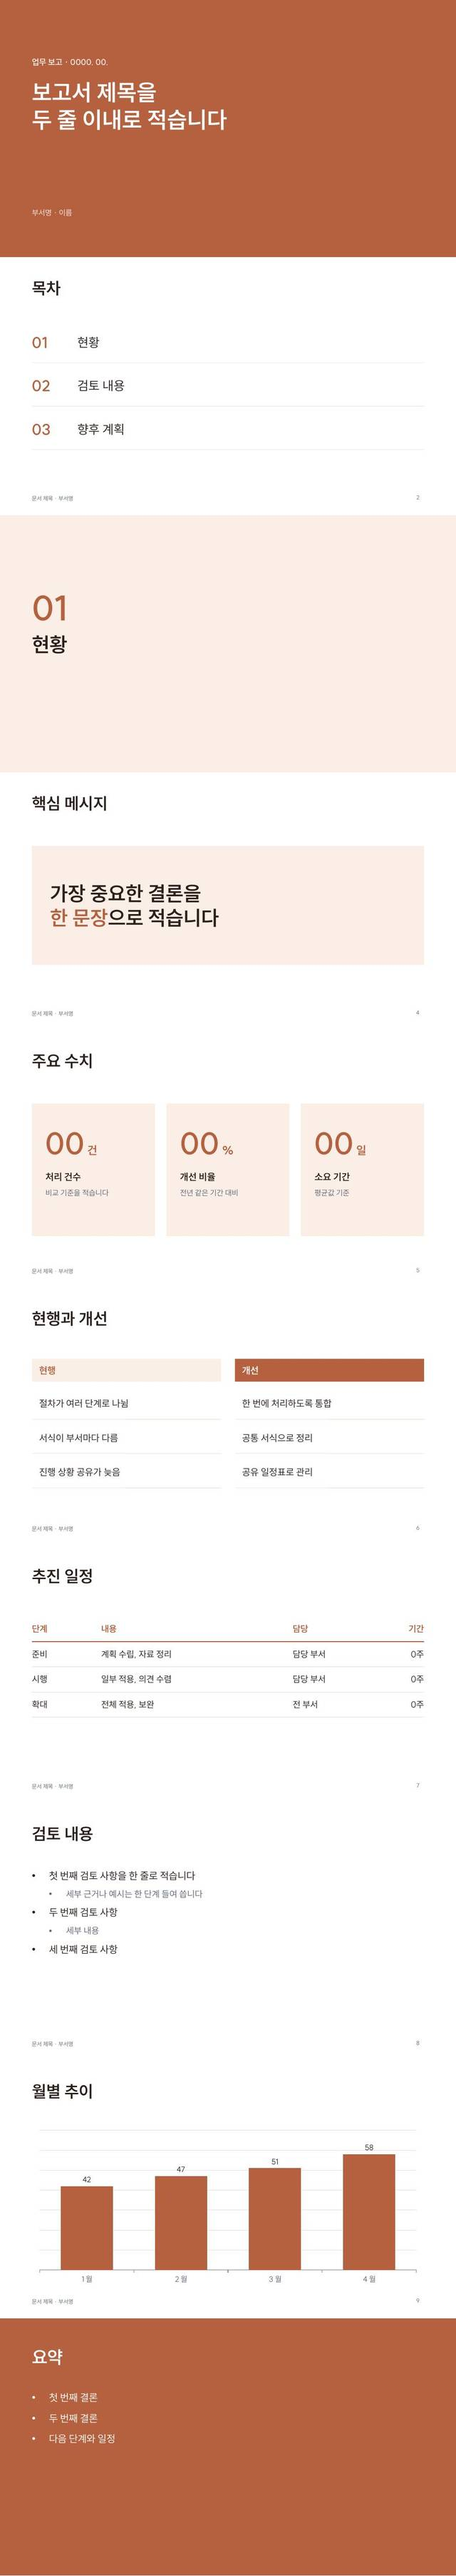
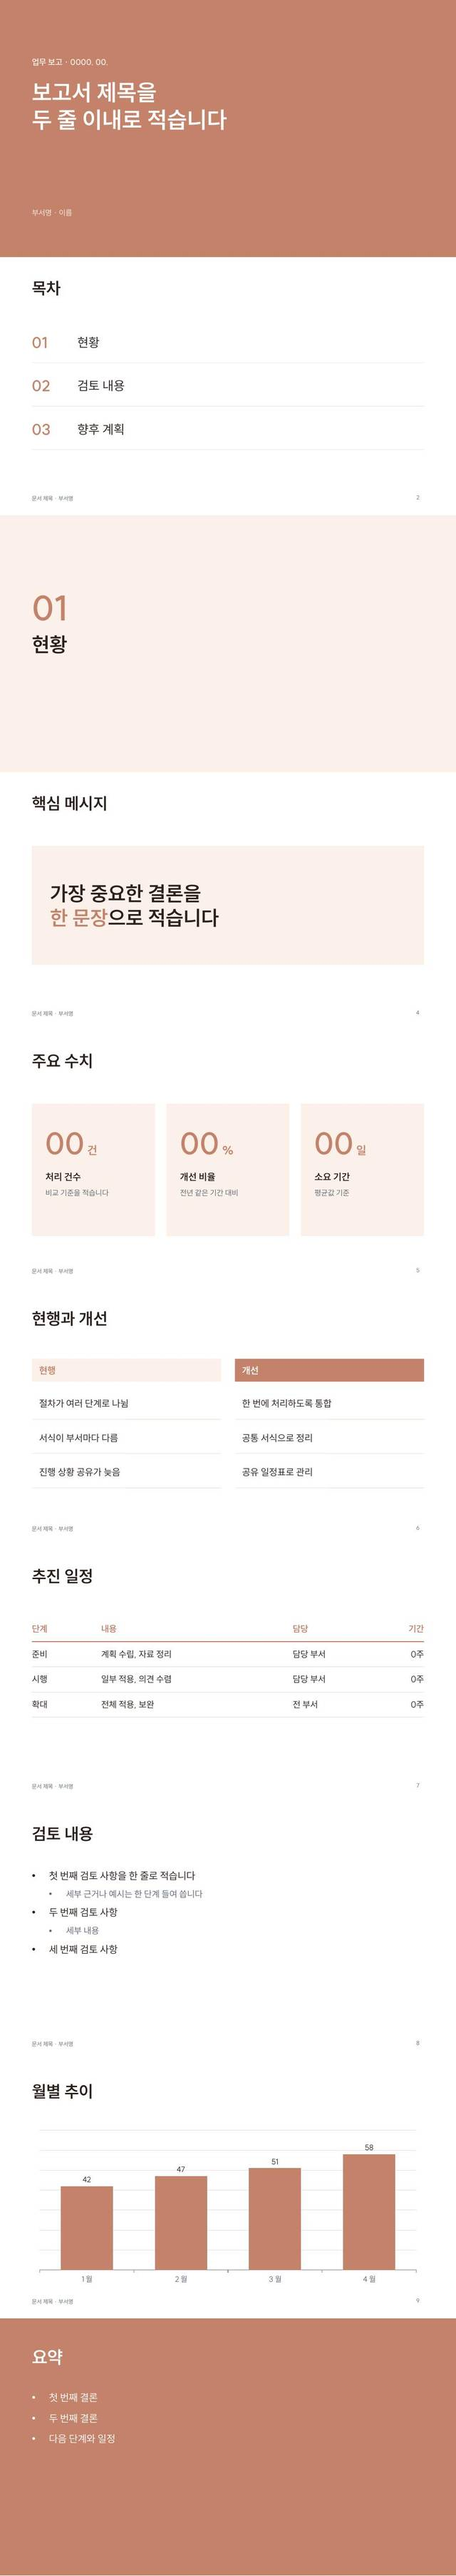
테라코타 옅게(C4826A), 추천 교육색 딥틸→세이지, 색 창 전체 목록은 추천 높이에서 스크롤
Claude-Session: https://claude.ai/code/session_01Ca5xgdiXcNBgih29kqtAto

diff --git a/index.html b/index.html
@@ -500,13 +500,13 @@ table.t th:last-child,table.t td:last-child{padding-right:0}
 - 차콜 그린 (추천 · 재무) [업무] 신뢰감 있는 녹색. 재무·결산 자료.
   주색 #2F3E3A / 보조 #6F807B / 옅은 바탕 #EFF3F1 / 글자 #1C2522 / 선 #D9E1DE / 포인트 #B7791F
   흰 글자 대비 11.2:1 → 주색 바탕에 본문까지 가능 · 진한 바탕 머리말 색: 포인트
-- 딥틸 (추천 · 교육) [교육] 교육·기관 소개 추천. 부드럽고 차분함.
+- 딥틸 [교육] 교육·기관 소개 추천. 부드럽고 차분함.
   주색 #1E4E5A / 보조 #5F8A93 / 옅은 바탕 #EDF3F4 / 글자 #1B2A2E / 선 #D6E2E4 / 포인트 #E08E45
   흰 글자 대비 9.2:1 → 주색 바탕에 본문까지 가능 · 진한 바탕 머리말 색: 포인트
 - 더스티 블루 [교육] 연한 파랑. 학부모·교사 대상 안내.
   주색 #4C6A8A / 보조 #8AA2BB / 옅은 바탕 #F0F4F8 / 글자 #1F2B38 / 선 #DCE4EC / 포인트 #D98C6A
   흰 글자 대비 5.6:1 → 주색 바탕에 본문까지 가능 · 진한 바탕 머리말 색: 옅은 바탕
-- 세이지 [교육] 차분한 초록. 유아·자연 주제.
+- 세이지 (추천 · 교육) [교육] 차분한 초록. 유아·아동 교육 추천.
   주색 #5B7B6A / 보조 #96AE9F / 옅은 바탕 #F1F5F2 / 글자 #1F2A24 / 선 #DCE6DF / 포인트 #C9925A
   흰 글자 대비 4.7:1 → 주색 바탕에 본문까지 가능 · 진한 바탕 머리말 색: 옅은 바탕
 - 올리브 그레이 [교육] 인쇄했을 때 눈이 편한 회녹색.
@@ -536,9 +536,9 @@ table.t th:last-child,table.t td:last-child{padding-right:0}
 - 레드 경고 [홍보] 주의·마감 안내 전용.
   주색 #B3261E / 보조 #7A7F87 / 옅은 바탕 #FBEDEC / 글자 #1F2328 / 선 #EED5D3 / 포인트 #1F2328
   흰 글자 대비 6.5:1 → 주색 바탕에 본문까지 가능 · 진한 바탕 머리말 색: 옅은 바탕
-- 테라코타 [교육] 연한 살구 면에 테라코타 숫자. 가장 부드러움.
-  주색 #B5603F / 보조 #D49A82 / 옅은 바탕 #FBEEE7 / 글자 #2B201B / 선 #F0DDD3 / 포인트 #5A3A2C
-  흰 글자 대비 4.5:1 → 주색 바탕에는 큰 제목만 · 진한 바탕 머리말 색: 옅은 바탕
+- 테라코타 [교육] 연한 살구 면에 옅은 테라코타. 가장 부드러움.
+  주색 #C4826A / 보조 #D9A994 / 옅은 바탕 #FBF0EA / 글자 #2B201B / 선 #F0DED4 / 포인트 #5A3A2C
+  흰 글자 대비 3.1:1 → 주색 바탕에는 큰 제목만 · 진한 바탕 머리말 색: 옅은 바탕
 - 로즈우드 [교육] 탁한 적갈색. 따뜻하고 부드러운 안내.
   주색 #8A4A46 / 보조 #B07F7B / 옅은 바탕 #F7EFEE / 글자 #2A1C1B / 선 #EBDCDA / 포인트 #D9A066
   흰 글자 대비 6.7:1 → 주색 바탕에 본문까지 가능 · 진한 바탕 머리말 색: 옅은 바탕
@@ -615,7 +615,7 @@ const RAW=[
  ["forest","차콜 그린","업무","신뢰감 있는 녹색. 재무·결산 자료.","2F3E3A","6F807B","EFF3F1","1C2522","D9E1DE","B7791F"],
  ["teal","딥틸","교육","교육·기관 소개 추천. 부드럽고 차분함.","1E4E5A","5F8A93","EDF3F4","1B2A2E","D6E2E4","E08E45"],
  ["dusty","더스티 블루","교육","연한 파랑. 학부모·교사 대상 안내.","4C6A8A","8AA2BB","F0F4F8","1F2B38","DCE4EC","D98C6A"],
- ["sage","세이지","교육","차분한 초록. 유아·자연 주제.","5B7B6A","96AE9F","F1F5F2","1F2A24","DCE6DF","C9925A"],
+ ["sage","세이지","교육","차분한 초록. 유아·아동 교육 추천.","5B7B6A","96AE9F","F1F5F2","1F2A24","DCE6DF","C9925A"],
  ["olive","올리브 그레이","교육","인쇄했을 때 눈이 편한 회녹색.","3F4A3C","7D8B74","F1F3EE","23281F","DDE2D8","C2853D"],
  ["lav","라벤더 그레이","교육","보라를 회색으로 눌러 차분하게.","5B5A7A","8F8EAD","F3F2F8","22212F","E2E1EC","D4A24C"],
  ["mocha","모카","교육","갈색 계열. 미술관·전시 안내.","6B5446","A08A7C","F6F2EF","2A211C","E7DED8","4F7CAC"],
@@ -625,11 +625,11 @@ const RAW=[
  ["orange","오렌지 차콜","홍보","시선을 끄는 모집 공고. 큰 제목에만.","C2541F","8A8F98","FBF1EB","22252A","ECE1DA","22252A"],
  ["wine","와인","홍보","격식 있는 초청장·제안서.","5A2A35","9A6B74","F6F0F1","2A1D20","E8DADD","C9A227"],
  ["red","레드 경고","홍보","주의·마감 안내 전용.","B3261E","7A7F87","FBEDEC","1F2328","EED5D3","1F2328"],
- ["terra","테라코타","교육","연한 살구 면에 테라코타 숫자. 가장 부드러움.","B5603F","D49A82","FBEEE7","2B201B","F0DDD3","5A3A2C"],
+ ["terra","테라코타","교육","연한 살구 면에 옅은 테라코타. 가장 부드러움.","C4826A","D9A994","FBF0EA","2B201B","F0DED4","5A3A2C"],
  ["rose","로즈우드","교육","탁한 적갈색. 따뜻하고 부드러운 안내.","8A4A46","B07F7B","F7EFEE","2A1C1B","EBDCDA","D9A066"],
  ["espresso","에스프레소","업무","짙은 갈색에 연살구 포인트. 묵직하고 고급스러움.","3B2A22","7A6458","F5EFEA","1F1712","E6DCD4","F2C9A8"]];
 const PALS=RAW.map(a=>({id:a[0],name:a[1],grp:a[2],use:a[3],c:{main:"#"+a[4],sub:"#"+a[5],tint:"#"+a[6],ink:"#"+a[7],line:"#"+a[8],point:"#"+a[9],bg:"#FFFFFF"}}));
-const REC={b3:"보고",lav:"안내",forest:"재무",teal:"교육",wine:"격식"};
+const REC={b3:"보고",lav:"안내",forest:"재무",sage:"교육",wine:"격식"};
 const MINE=Object.keys(REC);
 const LABEL={main:"주색",sub:"보조",tint:"옅은 바탕",ink:"글자",line:"선",point:"포인트"};
 const root=document.documentElement,toast=document.getElementById("toast");
@@ -719,7 +719,8 @@ let tf="mine",cur="b3",sty="base",fnt="pre";
 const FONTS={pre:{n:"Pretendard",dir:"pre/",css:'"Pretendard","Noto Sans KR",sans-serif'},noto:{n:"Noto Sans KR",dir:"",css:'"Noto Sans KR",sans-serif'},suit:{n:"SUIT",dir:"suit/",css:'"SUIT","Noto Sans KR",sans-serif'}};
 function drawTray(){tlist.innerHTML="";PALS.filter(p=>tf==="all"||MINE.includes(p.id)).forEach(p=>{const b=document.createElement("button");b.type="button";b.className="trow";b.id="trow-"+p.id;b.dataset.id=p.id;b.setAttribute("aria-pressed",p.id===cur?"true":"false");
   b.innerHTML='<span class="mini"><span style="background:'+p.c.main+'"></span><span style="background:'+p.c.sub+'"></span><span style="background:'+p.c.tint+'"></span><span style="background:'+p.c.point+'"></span></span>'+p.name+'<small>'+(REC[p.id]?"추천 · "+REC[p.id]:p.grp)+'</small>';
-  b.addEventListener("click",()=>{cur=p.id;apply(p)});tlist.appendChild(b)})}
+  b.addEventListener("click",()=>{cur=p.id;apply(p)});tlist.appendChild(b)});
+  const rows=tlist.children;if(tf==="all"&&rows.length>5){const h=rows[4].offsetTop+rows[4].offsetHeight-rows[0].offsetTop;tlist.style.maxHeight=h+"px";tlist.style.overflowY="auto"}else{tlist.style.maxHeight="";tlist.style.overflowY=""}}
 [["mine","추천 5"],["all","전체 21"]].forEach(([k,l])=>{const t=document.createElement("button");t.type="button";t.id="ttab-"+k;t.textContent=l;t.setAttribute("aria-pressed",k===tf?"true":"false");t.addEventListener("click",()=>{tf=k;ttabs.querySelectorAll("button").forEach(x=>x.setAttribute("aria-pressed",x===t?"true":"false"));drawTray()});ttabs.appendChild(t)});
 function setTray(o){tray.hidden=!o;fab.setAttribute("aria-expanded",o?"true":"false");if(o){drawTray();setAiPop(false)}}
 fab.addEventListener("click",()=>setTray(tray.hidden));

diff --git a/src/board_src.html b/src/board_src.html
@@ -440,7 +440,7 @@ const RAW=[
  ["forest","차콜 그린","업무","신뢰감 있는 녹색. 재무·결산 자료.","2F3E3A","6F807B","EFF3F1","1C2522","D9E1DE","B7791F"],
  ["teal","딥틸","교육","교육·기관 소개 추천. 부드럽고 차분함.","1E4E5A","5F8A93","EDF3F4","1B2A2E","D6E2E4","E08E45"],
  ["dusty","더스티 블루","교육","연한 파랑. 학부모·교사 대상 안내.","4C6A8A","8AA2BB","F0F4F8","1F2B38","DCE4EC","D98C6A"],
- ["sage","세이지","교육","차분한 초록. 유아·자연 주제.","5B7B6A","96AE9F","F1F5F2","1F2A24","DCE6DF","C9925A"],
+ ["sage","세이지","교육","차분한 초록. 유아·아동 교육 추천.","5B7B6A","96AE9F","F1F5F2","1F2A24","DCE6DF","C9925A"],
  ["olive","올리브 그레이","교육","인쇄했을 때 눈이 편한 회녹색.","3F4A3C","7D8B74","F1F3EE","23281F","DDE2D8","C2853D"],
  ["lav","라벤더 그레이","교육","보라를 회색으로 눌러 차분하게.","5B5A7A","8F8EAD","F3F2F8","22212F","E2E1EC","D4A24C"],
  ["mocha","모카","교육","갈색 계열. 미술관·전시 안내.","6B5446","A08A7C","F6F2EF","2A211C","E7DED8","4F7CAC"],
@@ -450,11 +450,11 @@ const RAW=[
  ["orange","오렌지 차콜","홍보","시선을 끄는 모집 공고. 큰 제목에만.","C2541F","8A8F98","FBF1EB","22252A","ECE1DA","22252A"],
  ["wine","와인","홍보","격식 있는 초청장·제안서.","5A2A35","9A6B74","F6F0F1","2A1D20","E8DADD","C9A227"],
  ["red","레드 경고","홍보","주의·마감 안내 전용.","B3261E","7A7F87","FBEDEC","1F2328","EED5D3","1F2328"],
- ["terra","테라코타","교육","연한 살구 면에 테라코타 숫자. 가장 부드러움.","B5603F","D49A82","FBEEE7","2B201B","F0DDD3","5A3A2C"],
+ ["terra","테라코타","교육","연한 살구 면에 옅은 테라코타. 가장 부드러움.","C4826A","D9A994","FBF0EA","2B201B","F0DED4","5A3A2C"],
  ["rose","로즈우드","교육","탁한 적갈색. 따뜻하고 부드러운 안내.","8A4A46","B07F7B","F7EFEE","2A1C1B","EBDCDA","D9A066"],
  ["espresso","에스프레소","업무","짙은 갈색에 연살구 포인트. 묵직하고 고급스러움.","3B2A22","7A6458","F5EFEA","1F1712","E6DCD4","F2C9A8"]];
 const PALS=RAW.map(a=>({id:a[0],name:a[1],grp:a[2],use:a[3],c:{main:"#"+a[4],sub:"#"+a[5],tint:"#"+a[6],ink:"#"+a[7],line:"#"+a[8],point:"#"+a[9],bg:"#FFFFFF"}}));
-const REC={b3:"보고",lav:"안내",forest:"재무",teal:"교육",wine:"격식"};
+const REC={b3:"보고",lav:"안내",forest:"재무",sage:"교육",wine:"격식"};
 const MINE=Object.keys(REC);
 const LABEL={main:"주색",sub:"보조",tint:"옅은 바탕",ink:"글자",line:"선",point:"포인트"};
 const root=document.documentElement,toast=document.getElementById("toast");
@@ -544,7 +544,8 @@ let tf="mine",cur="b3",sty="base",fnt="pre";
 const FONTS={pre:{n:"Pretendard",dir:"pre/",css:'"Pretendard","Noto Sans KR",sans-serif'},noto:{n:"Noto Sans KR",dir:"",css:'"Noto Sans KR",sans-serif'},suit:{n:"SUIT",dir:"suit/",css:'"SUIT","Noto Sans KR",sans-serif'}};
 function drawTray(){tlist.innerHTML="";PALS.filter(p=>tf==="all"||MINE.includes(p.id)).forEach(p=>{const b=document.createElement("button");b.type="button";b.className="trow";b.id="trow-"+p.id;b.dataset.id=p.id;b.setAttribute("aria-pressed",p.id===cur?"true":"false");
   b.innerHTML='<span class="mini"><span style="background:'+p.c.main+'"></span><span style="background:'+p.c.sub+'"></span><span style="background:'+p.c.tint+'"></span><span style="background:'+p.c.point+'"></span></span>'+p.name+'<small>'+(REC[p.id]?"추천 · "+REC[p.id]:p.grp)+'</small>';
-  b.addEventListener("click",()=>{cur=p.id;apply(p)});tlist.appendChild(b)})}
+  b.addEventListener("click",()=>{cur=p.id;apply(p)});tlist.appendChild(b)});
+  const rows=tlist.children;if(tf==="all"&&rows.length>5){const h=rows[4].offsetTop+rows[4].offsetHeight-rows[0].offsetTop;tlist.style.maxHeight=h+"px";tlist.style.overflowY="auto"}else{tlist.style.maxHeight="";tlist.style.overflowY=""}}
 [["mine","추천 5"],["all","전체 21"]].forEach(([k,l])=>{const t=document.createElement("button");t.type="button";t.id="ttab-"+k;t.textContent=l;t.setAttribute("aria-pressed",k===tf?"true":"false");t.addEventListener("click",()=>{tf=k;ttabs.querySelectorAll("button").forEach(x=>x.setAttribute("aria-pressed",x===t?"true":"false"));drawTray()});ttabs.appendChild(t)});
 function setTray(o){tray.hidden=!o;fab.setAttribute("aria-expanded",o?"true":"false");if(o){drawTray();setAiPop(false)}}
 fab.addEventListener("click",()=>setTray(tray.hidden));

diff --git a/src/pals.js b/src/pals.js
@@ -1,0 +1,23 @@
+module.exports = [
+ ["b3","청먹","1F3A5F","4A6A8C","EEF2F7","1C2430","D5DDE7","C9A227"],
+ ["slate","슬레이트","334155","64748B","F1F5F9","0F172A","E2E8F0","D97706"],
+ ["ink","먹색","2B2F36","6B7280","F3F4F6","111827","E5E7EB","2563EB"],
+ ["steel","스틸블루","2F5D8A","6E8FB0","EDF3F9","1B2735","D4E0EC","E0A82E"],
+ ["royal","공공 네이비","1D3C78","5873A6","EEF2FA","141E33","D3DCEE","F2B705"],
+ ["forest","차콜 그린","2F3E3A","6F807B","EFF3F1","1C2522","D9E1DE","B7791F"],
+ ["teal","딥틸","1E4E5A","5F8A93","EDF3F4","1B2A2E","D6E2E4","E08E45"],
+ ["dusty","더스티 블루","4C6A8A","8AA2BB","F0F4F8","1F2B38","DCE4EC","D98C6A"],
+ ["sage","세이지","5B7B6A","96AE9F","F1F5F2","1F2A24","DCE6DF","C9925A"],
+ ["olive","올리브 그레이","3F4A3C","7D8B74","F1F3EE","23281F","DDE2D8","C2853D"],
+ ["lav","라벤더 그레이","5B5A7A","8F8EAD","F3F2F8","22212F","E2E1EC","D4A24C"],
+ ["mocha","모카","6B5446","A08A7C","F6F2EF","2A211C","E7DED8","4F7CAC"],
+ ["cobalt","코발트","2F49A8","6E81C7","EEF1FB","1A2142","D6DCF2","F5C542"],
+ ["blue","흑백 파랑","0F62FE","6F6F6F","F4F4F4","161616","E0E0E0","161616"],
+ ["emerald","에메랄드","0F766E","4FA39A","ECF7F5","10201E","CFE7E3","F59E0B"],
+ ["orange","오렌지 차콜","C2541F","8A8F98","FBF1EB","22252A","ECE1DA","22252A"],
+ ["wine","와인","5A2A35","9A6B74","F6F0F1","2A1D20","E8DADD","C9A227"],
+ ["red","레드 경고","B3261E","7A7F87","FBEDEC","1F2328","EED5D3","1F2328"],
+ ["terra","테라코타","C4826A","D9A994","FBF0EA","2B201B","F0DED4","5A3A2C"],
+ ["rose","로즈우드","8A4A46","B07F7B","F7EFEE","2A1C1B","EBDCDA","D9A066"],
+ ["espresso","에스프레소","3B2A22","7A6458","F5EFEA","1F1712","E6DCD4","F2C9A8"]
+].map(a=>({id:a[0],name:a[1],main:a[2],sub:a[3],tint:a[4],ink:a[5],line:a[6],point:a[7]}));

diff --git a/src/make_page.js b/src/make_page.js
@@ -7,7 +7,7 @@ let html = fs.readFileSync(path.join(SRC, 'board_src.html'), 'utf8');
 // 페이지 안의 RAW 색 목록(이름·분류·용도 포함)을 그대로 읽음
 const rawTxt = html.slice(html.indexOf('const RAW=') + 10, html.indexOf('];', html.indexOf('const RAW=')) + 1);
 const RAW = eval(rawTxt);
-const REC = { b3: '보고', lav: '안내', forest: '재무', teal: '교육', wine: '격식' };
+const REC = { b3: '보고', lav: '안내', forest: '재무', sage: '교육', wine: '격식' };
 const lum = h => { const v = [0, 2, 4].map(i => { let c = parseInt(h.substr(i, 2), 16) / 255; return c <= .03928 ? c / 12.92 : Math.pow((c + .055) / 1.055, 2.4) }); return .2126 * v[0] + .7152 * v[1] + .0722 * v[2] };
 const ratio = (a, b) => { const x = lum(a), y = lum(b); return (Math.max(x, y) + .05) / (Math.min(x, y) + .05) };
 

diff --git a/README.md b/README.md
@@ -88,13 +88,13 @@
 - 차콜 그린 (추천 · 재무) [업무] 신뢰감 있는 녹색. 재무·결산 자료.
   - 주색 #2F3E3A / 보조 #6F807B / 옅은 바탕 #EFF3F1 / 글자 #1C2522 / 선 #D9E1DE / 포인트 #B7791F
   - 흰 글자 대비 11.2:1 → 주색 바탕에 본문까지 가능 · 진한 바탕 머리말 색: 포인트
-- 딥틸 (추천 · 교육) [교육] 교육·기관 소개 추천. 부드럽고 차분함.
+- 딥틸 [교육] 교육·기관 소개 추천. 부드럽고 차분함.
   - 주색 #1E4E5A / 보조 #5F8A93 / 옅은 바탕 #EDF3F4 / 글자 #1B2A2E / 선 #D6E2E4 / 포인트 #E08E45
   - 흰 글자 대비 9.2:1 → 주색 바탕에 본문까지 가능 · 진한 바탕 머리말 색: 포인트
 - 더스티 블루 [교육] 연한 파랑. 학부모·교사 대상 안내.
   - 주색 #4C6A8A / 보조 #8AA2BB / 옅은 바탕 #F0F4F8 / 글자 #1F2B38 / 선 #DCE4EC / 포인트 #D98C6A
   - 흰 글자 대비 5.6:1 → 주색 바탕에 본문까지 가능 · 진한 바탕 머리말 색: 옅은 바탕
-- 세이지 [교육] 차분한 초록. 유아·자연 주제.
+- 세이지 (추천 · 교육) [교육] 차분한 초록. 유아·아동 교육 추천.
   - 주색 #5B7B6A / 보조 #96AE9F / 옅은 바탕 #F1F5F2 / 글자 #1F2A24 / 선 #DCE6DF / 포인트 #C9925A
   - 흰 글자 대비 4.7:1 → 주색 바탕에 본문까지 가능 · 진한 바탕 머리말 색: 옅은 바탕
 - 올리브 그레이 [교육] 인쇄했을 때 눈이 편한 회녹색.
@@ -124,9 +124,9 @@
 - 레드 경고 [홍보] 주의·마감 안내 전용.
   - 주색 #B3261E / 보조 #7A7F87 / 옅은 바탕 #FBEDEC / 글자 #1F2328 / 선 #EED5D3 / 포인트 #1F2328
   - 흰 글자 대비 6.5:1 → 주색 바탕에 본문까지 가능 · 진한 바탕 머리말 색: 옅은 바탕
-- 테라코타 [교육] 연한 살구 면에 테라코타 숫자. 가장 부드러움.
-  - 주색 #B5603F / 보조 #D49A82 / 옅은 바탕 #FBEEE7 / 글자 #2B201B / 선 #F0DDD3 / 포인트 #5A3A2C
-  - 흰 글자 대비 4.5:1 → 주색 바탕에는 큰 제목만 · 진한 바탕 머리말 색: 옅은 바탕
+- 테라코타 [교육] 연한 살구 면에 옅은 테라코타. 가장 부드러움.
+  - 주색 #C4826A / 보조 #D9A994 / 옅은 바탕 #FBF0EA / 글자 #2B201B / 선 #F0DED4 / 포인트 #5A3A2C
+  - 흰 글자 대비 3.1:1 → 주색 바탕에는 큰 제목만 · 진한 바탕 머리말 색: 옅은 바탕
 - 로즈우드 [교육] 탁한 적갈색. 따뜻하고 부드러운 안내.
   - 주색 #8A4A46 / 보조 #B07F7B / 옅은 바탕 #F7EFEE / 글자 #2A1C1B / 선 #EBDCDA / 포인트 #D9A066
   - 흰 글자 대비 6.7:1 → 주색 바탕에 본문까지 가능 · 진한 바탕 머리말 색: 옅은 바탕
